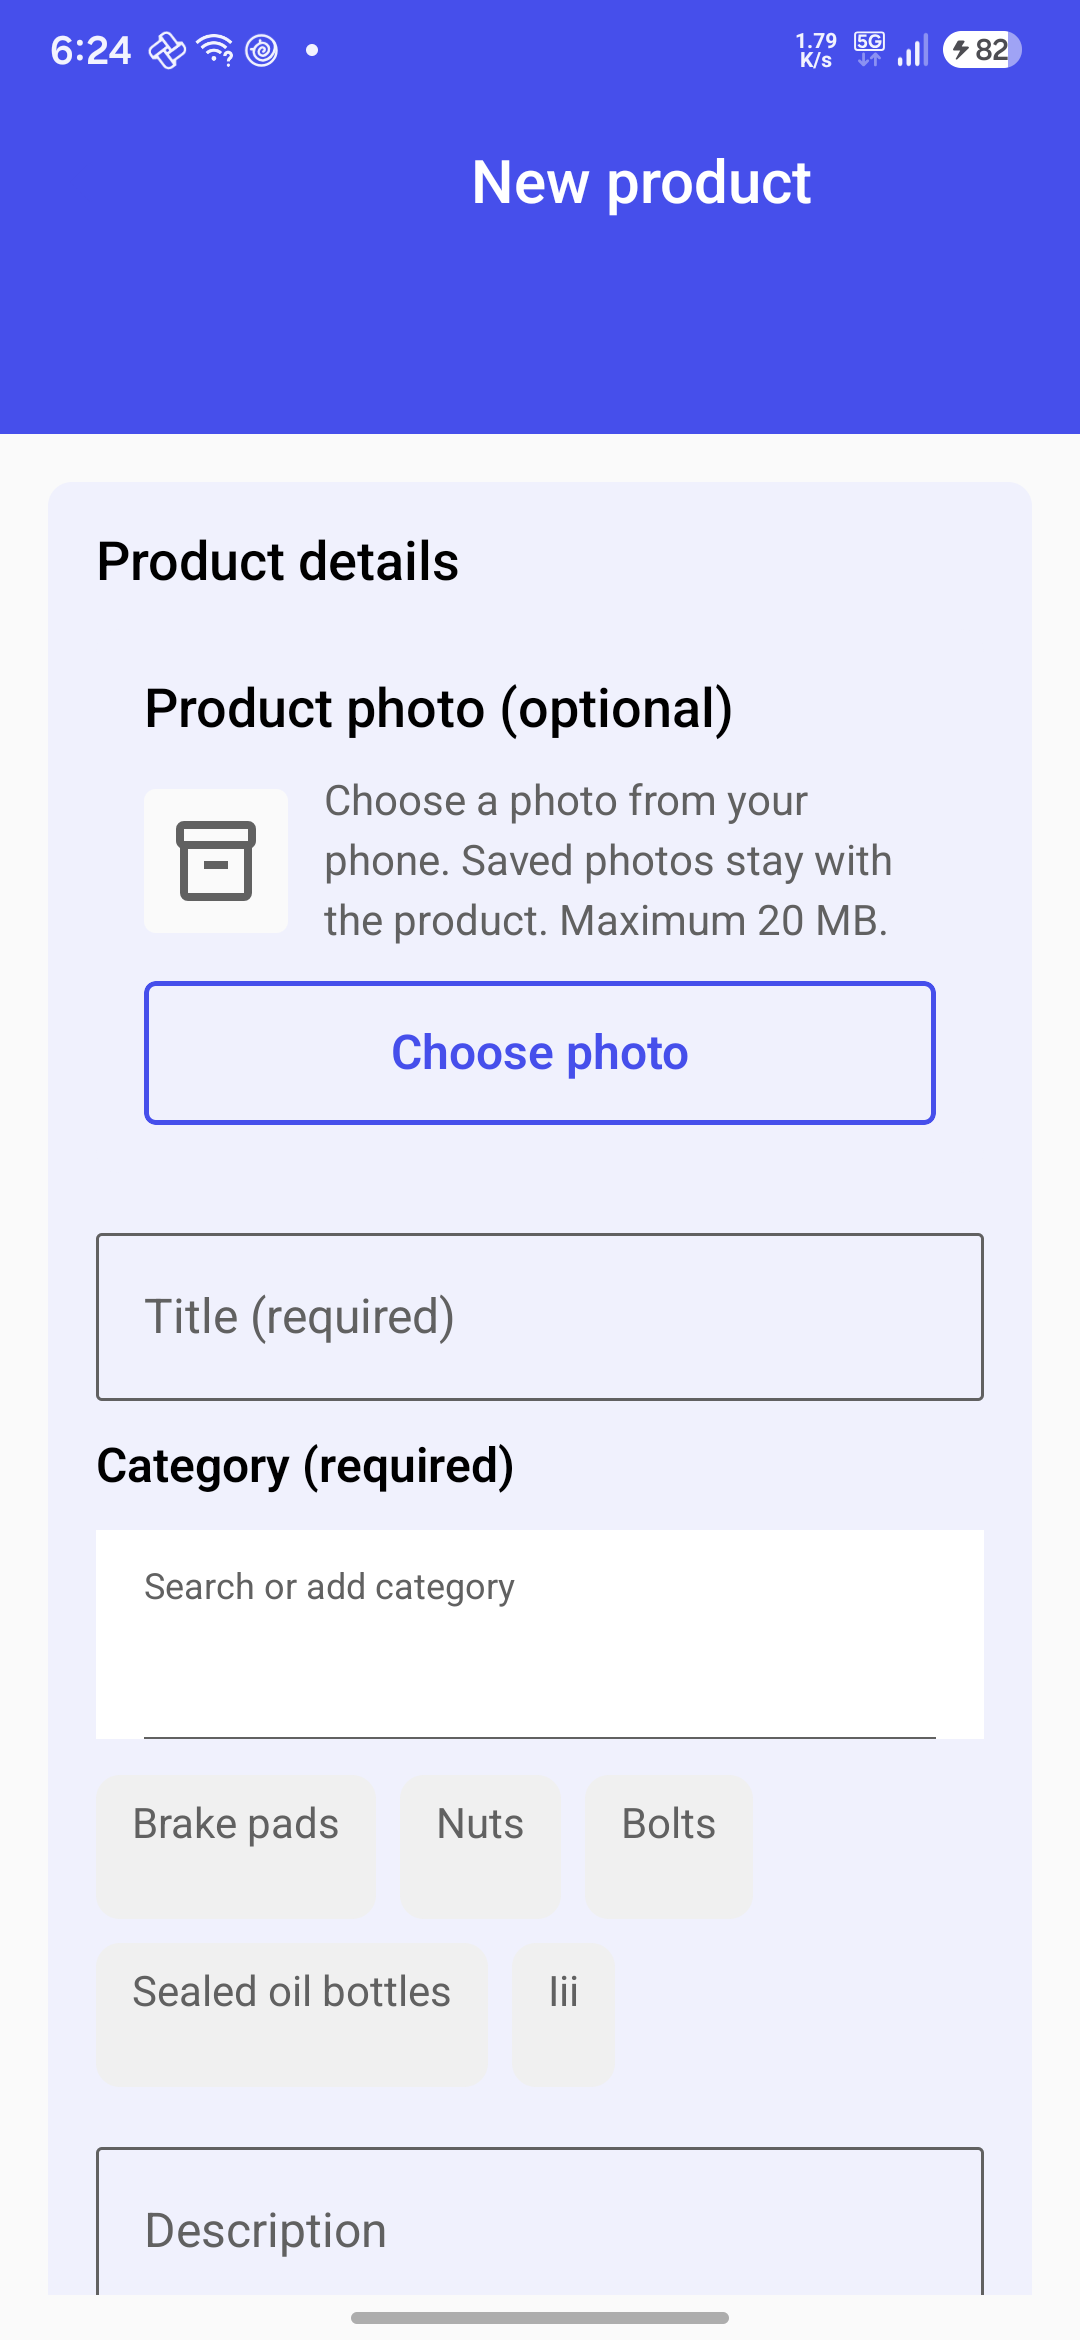
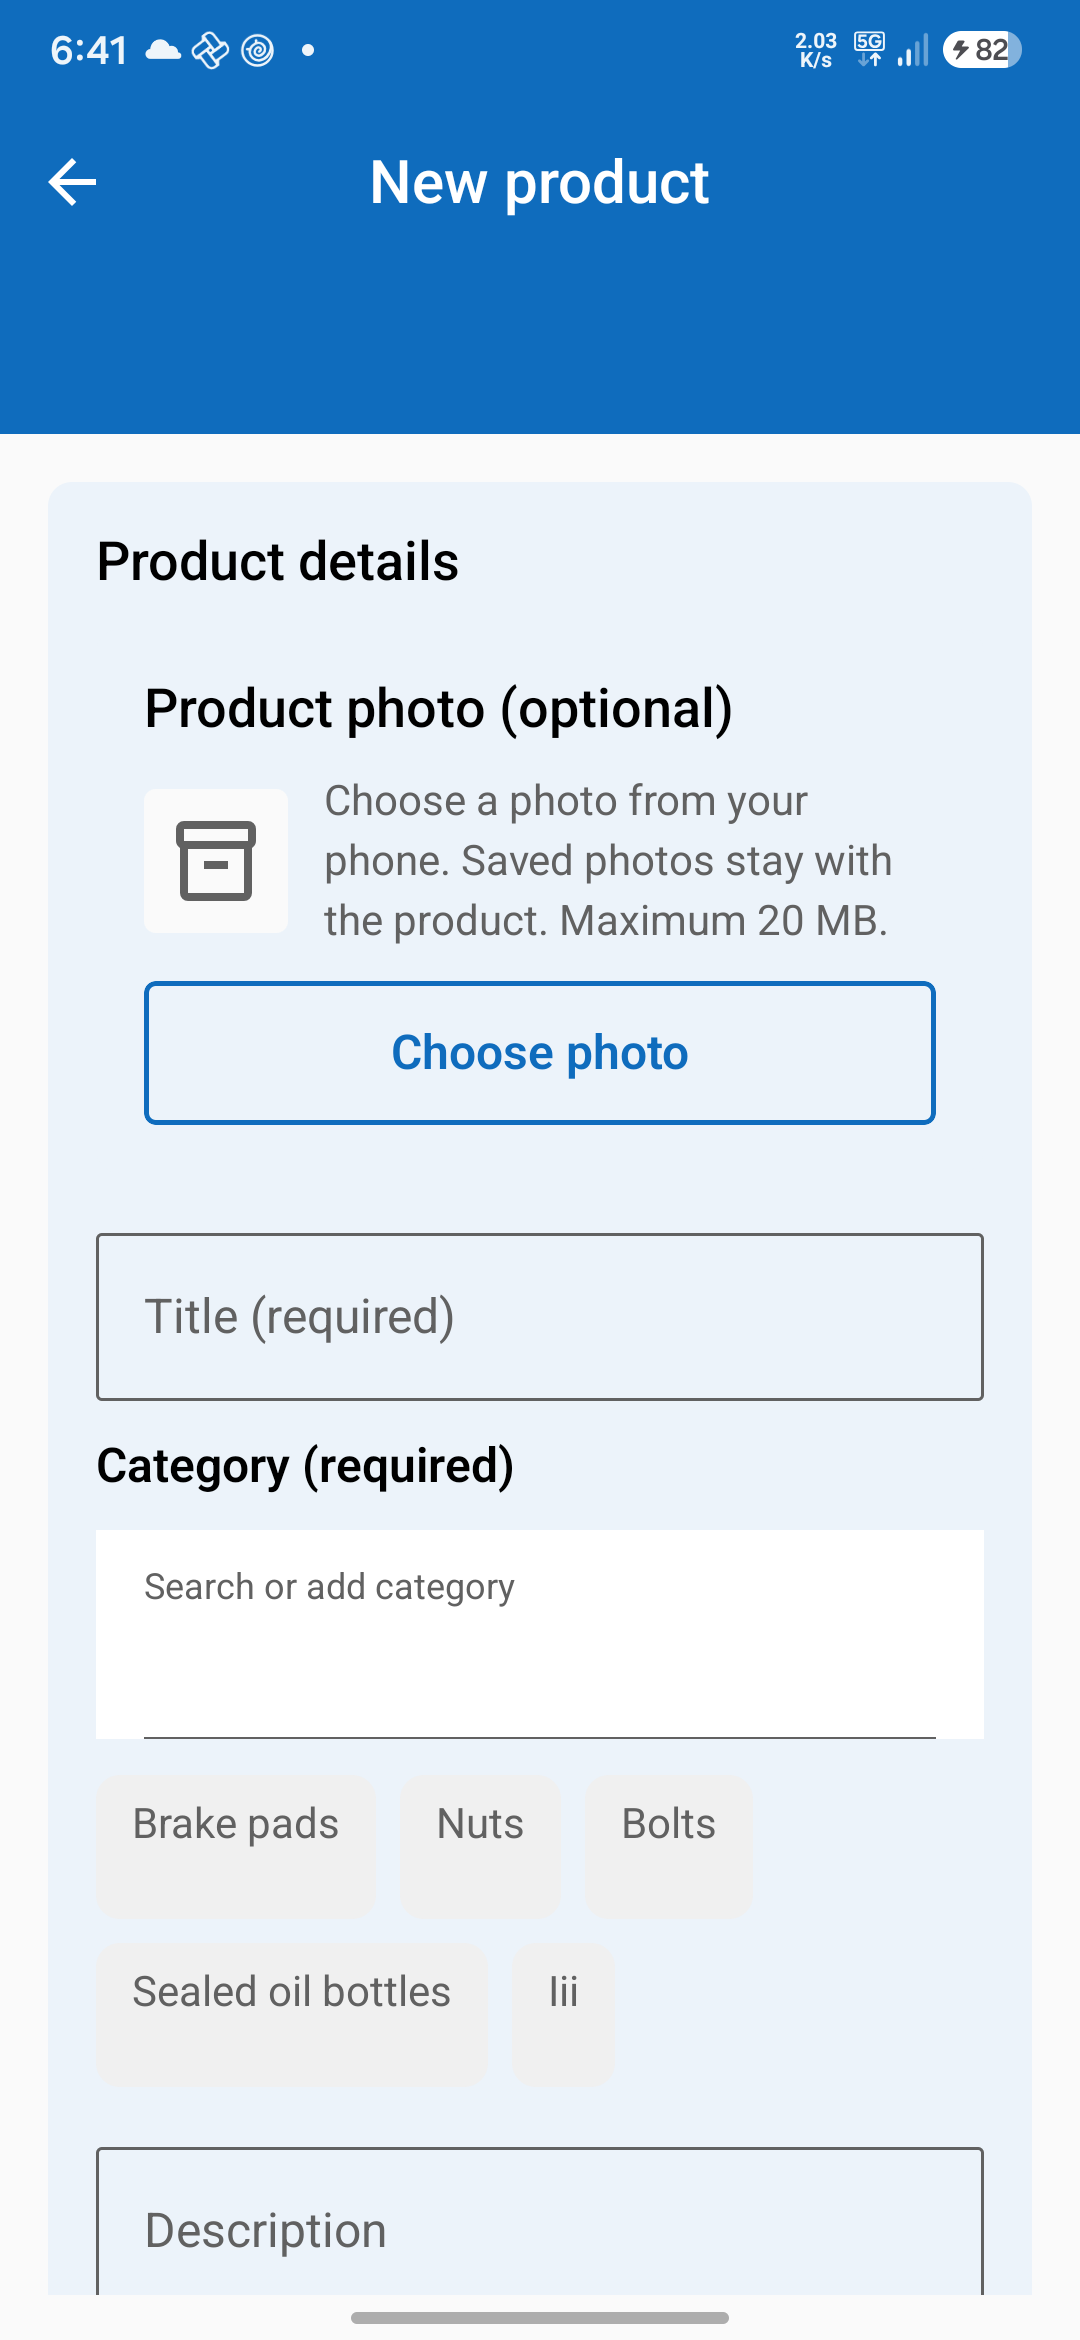
Balance the shop app bar and remove unused Fluent UI imports

diff --git a/app/src/main/java/com/nadim/bikepart/ui/ShopRouteColumn.kt b/app/src/main/java/com/nadim/bikepart/ui/ShopRouteColumn.kt
@@ -6,11 +6,13 @@ import androidx.compose.foundation.layout.Box
 import androidx.compose.foundation.layout.Column
 import androidx.compose.foundation.layout.PaddingValues
 import androidx.compose.foundation.layout.RowScope
+import androidx.compose.foundation.layout.Spacer
 import androidx.compose.foundation.layout.consumeWindowInsets
 import androidx.compose.foundation.layout.fillMaxSize
 import androidx.compose.foundation.layout.fillMaxWidth
 import androidx.compose.foundation.layout.padding
 import androidx.compose.foundation.layout.statusBarsPadding
+import androidx.compose.foundation.layout.width
 import androidx.compose.foundation.layout.widthIn
 import androidx.compose.foundation.rememberScrollState
 import androidx.compose.foundation.verticalScroll
@@ -60,7 +62,7 @@ internal fun ShopRouteAppBar(
     showBack: Boolean,
     enabled: Boolean = true,
     searchMode: Boolean = false,
-    searchBar: @Composable RowScope.() -> Unit = {},
+    searchBar: (@Composable RowScope.() -> Unit)? = null,
 ) {
     val colors = shopAppBarColors()
     val back = LocalShopRouteBack.current
@@ -78,6 +80,9 @@ internal fun ShopRouteAppBar(
             searchMode = searchMode,
             searchBar = searchBar,
             centerAlignAppBar = true,
+            rightAccessoryView = if (showBack) {
+                { Spacer(Modifier.width(ShopSpacing.touchTarget + ShopSpacing.small)) }
+            } else null,
             logo = if (showBack) {
                 { ShopBackButton(onClick = back, enabled = enabled) }
             } else null,

diff --git a/app/src/main/java/com/nadim/bikepart/ui/BackupsRoute.kt b/app/src/main/java/com/nadim/bikepart/ui/BackupsRoute.kt
@@ -1,24 +1,9 @@
 package com.nadim.bikepart.ui
 
 import androidx.compose.runtime.Composable
+import com.microsoft.fluentui.compose.Scaffold
 import com.nadim.bikepart.shop.LocalCapture
 import com.nadim.bikepart.shop.ShopSnapshot
-import com.microsoft.fluentui.compose.Scaffold
-import com.microsoft.fluentui.theme.FluentTheme
-import com.microsoft.fluentui.theme.token.FluentIcon
-import com.microsoft.fluentui.theme.token.controlTokens.*
-import com.microsoft.fluentui.tokenized.AppBar
-import com.microsoft.fluentui.tokenized.controls.Button
-import com.microsoft.fluentui.tokenized.controls.FloatingActionButton
-import com.microsoft.fluentui.tokenized.drawer.Drawer
-import com.microsoft.fluentui.tokenized.drawer.rememberDrawerState
-import com.microsoft.fluentui.tokenized.listitem.ListItem
-import com.microsoft.fluentui.tokenized.navigation.TabBar
-import com.microsoft.fluentui.tokenized.navigation.TabData
-import com.microsoft.fluentui.tokenized.notification.Badge
-import com.microsoft.fluentui.tokenized.notification.NotificationResult
-import com.microsoft.fluentui.tokenized.notification.Snackbar
-import com.microsoft.fluentui.tokenized.notification.SnackbarState
 
 
 @Composable
